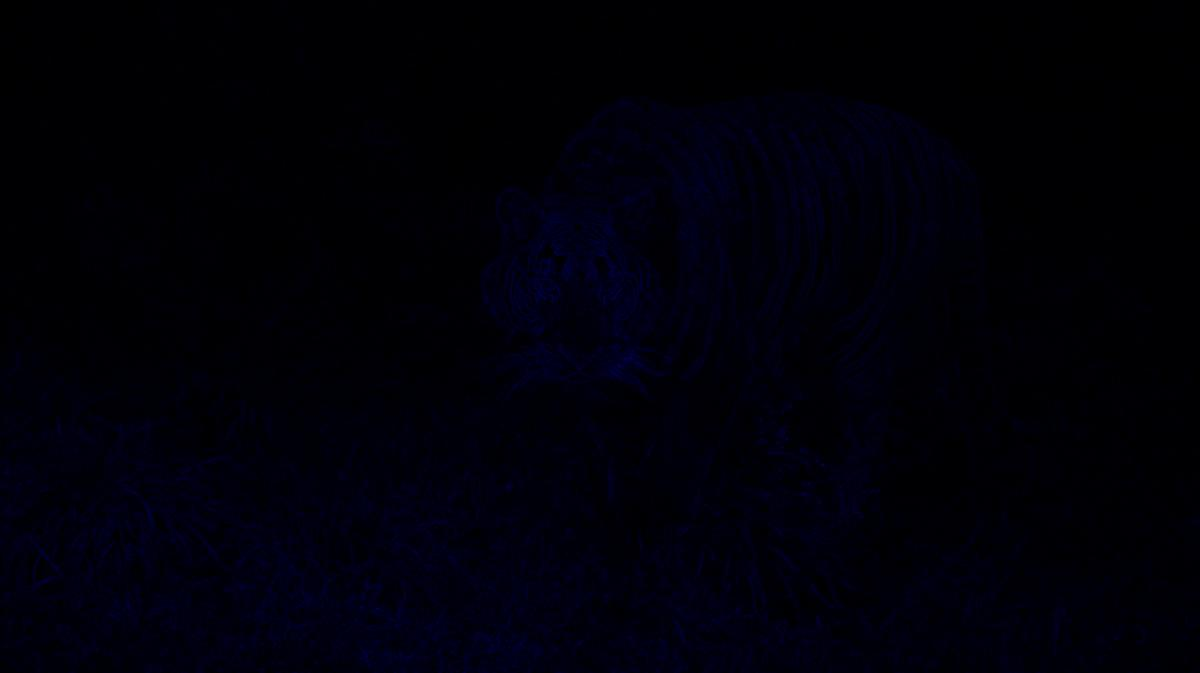
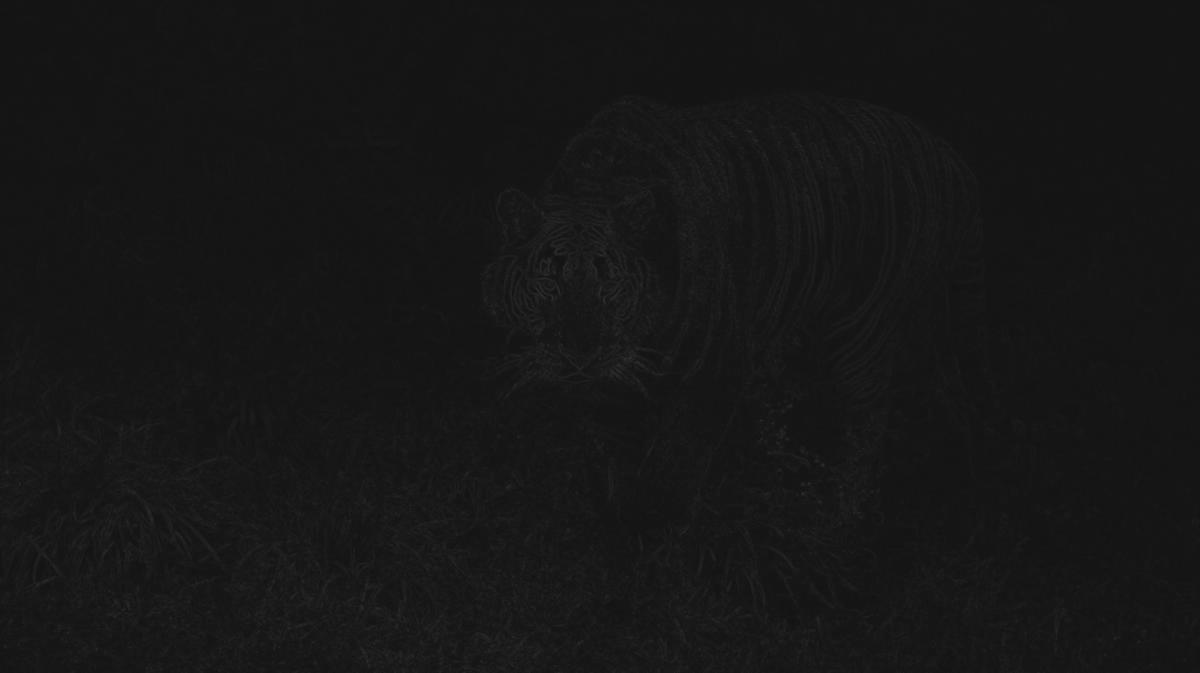
asdads

diff --git a/SeamCarving/src/seamcarving/Test.java b/SeamCarving/src/seamcarving/Test.java
@@ -9,6 +9,7 @@ import javax.imageio.ImageIO;
 
 import seamcarving.algorithm.BasicEnergyFunction;
 import seamcarving.algorithm.EnergyFunction;
+import seamcarving.algorithm.EntropyEnergyFunction;
 
 public class Test {
 
@@ -28,14 +29,18 @@ public class Test {
 		BufferedImage imgOut = ImageIO.read(new File(inputFileName));
 		File imgdst = new File(outputFileName);		
 		Color c;
-		EnergyFunction ef = new BasicEnergyFunction();
-//		EnergyFunction ef = new EntropyEnergyFunction(img);
+//		EnergyFunction ef = new BasicEnergyFunction();
+		EnergyFunction ef = new EntropyEnergyFunction(img);
 		
 		for(int i = 0; i < img.getWidth();i++)
 	        for(int j = 0; j < img.getHeight(); j ++)
 	        {
 	        	 energy = ef.calculateEnergyForPixel(img, i, j);
-	        	 imgOut.setRGB(i, j, (int)(energy));
+	        	 Color col = new Color((int)energy);
+	        	 int avg = (int)(col.getRed() + col.getGreen() + col.getBlue())/3;
+	        	 avg = Math.min(avg + 20, 255);
+	        	 Color gray = new Color(avg, avg, avg);
+	        	 imgOut.setRGB(i, j, gray.getRGB());
 	        }
 		
 		ImageIO.write(imgOut,"jpg", imgdst);

diff --git a/SeamCarving/src/seamcarving/algorithm/EntropyEnergyFunction.java b/SeamCarving/src/seamcarving/algorithm/EntropyEnergyFunction.java
@@ -7,8 +7,7 @@ public class EntropyEnergyFunction implements EnergyFunction {
 
 	private BasicEnergyFunction basicFunc;
 	private double[][] pArr;
-	private int entropyCount = 0;
-	private int getPCount = 0;
+	
 	public EntropyEnergyFunction(BufferedImage img) {
 		basicFunc = new BasicEnergyFunction();
 		pArr = new double[img.getWidth()][img.getHeight()];
@@ -18,7 +17,7 @@ public class EntropyEnergyFunction implements EnergyFunction {
 	public double calculateEnergyForPixel(BufferedImage img, int x, int y) {
 		double energy = basicFunc.calculateEnergyForPixel(img, x, y);
 		double entropy = calculateEntropyForPixel(img, x, y);
-		double w = 1;
+		double w = 0.9;
 		return (w * energy + (1 - w) * entropy);
 	}
 
